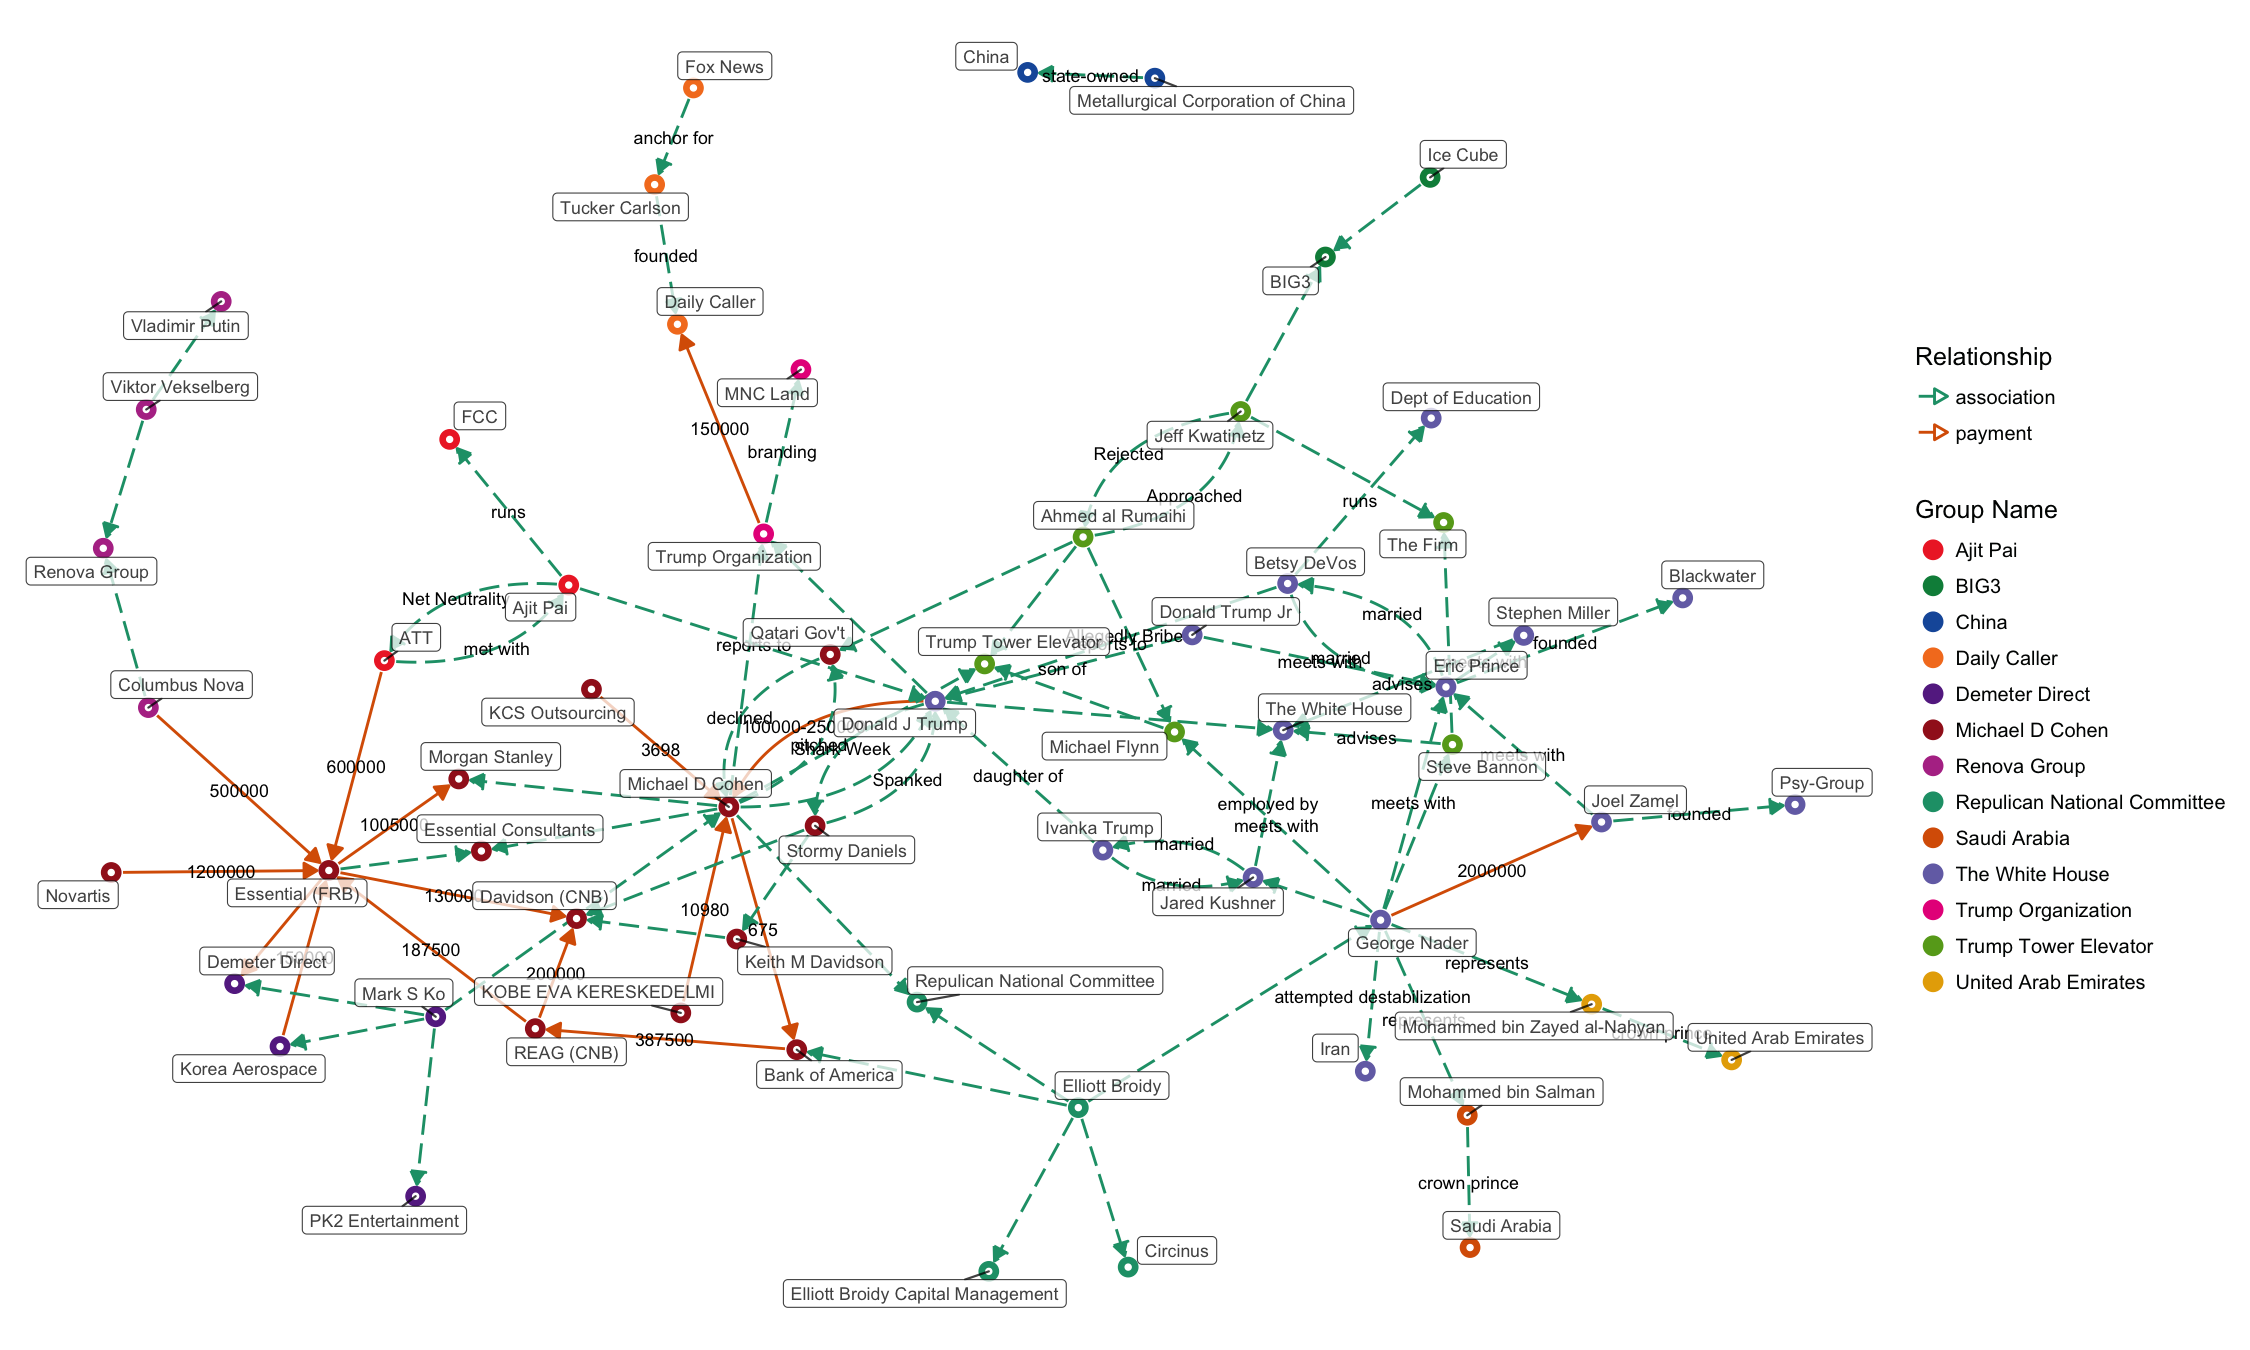
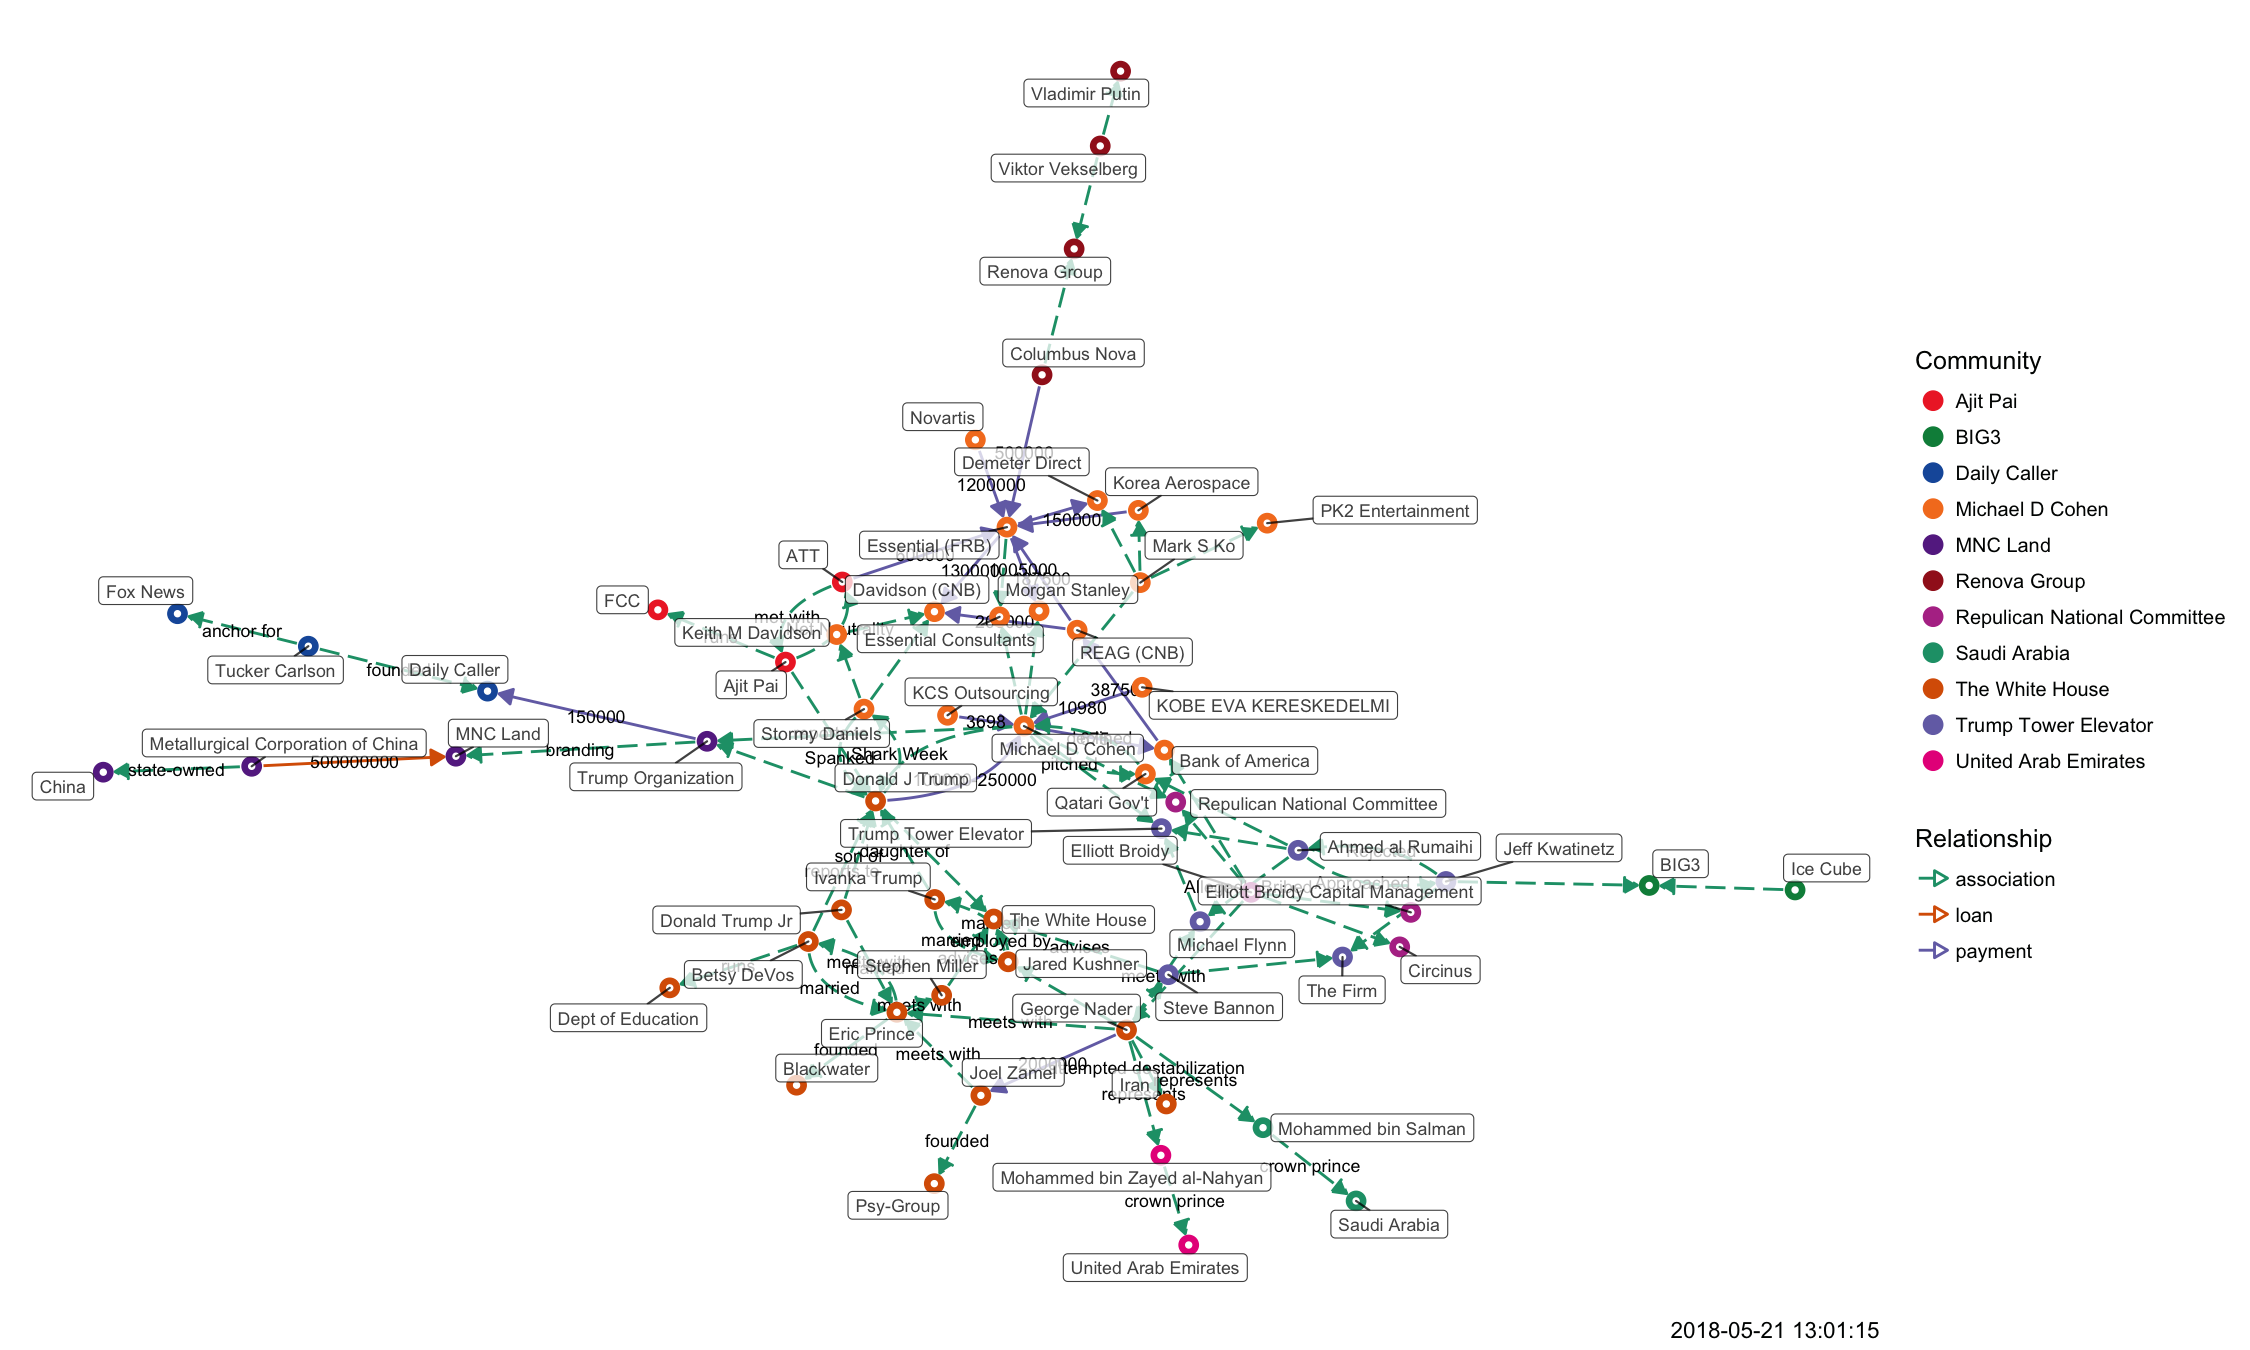
updated

diff --git a/docs/tangled-d3.html b/docs/tangled-d3.html
@@ -1143,11 +1143,11 @@ return function(){for(var n=0,e=0;e<t;++e)n+=Math.random();return n}},um=functio
 </head>
 <body style="background-color: white;">
 <div id="htmlwidget_container">
-<div id="htmlwidget-9cecf5cc5d6e5ba40ebd" class="forceNetwork html-widget" style="width:960px;height:500px;">
+<div id="htmlwidget-3a9a416c695a3498ed51" class="forceNetwork html-widget" style="width:960px;height:500px;">
 
 </div>
 </div>
-<script type="application/json" data-for="htmlwidget-9cecf5cc5d6e5ba40ebd">{"x":{"links":{"source":[0,1,2,3,4,4,4,5,6,7,8,9,10,11,11,12,4,9,2,13,9,14,15,15,13,16,16,16,16,9,3,3,15,9,9,17,17,17,17,3,9,18,19,19,20,21,20,20,22,19,19,23,23,23,0,22,16,5,5,24,24,25,25,9,26,27,28,5,29,30,31,5,5,32,33,31,34,30,5,5,29,31,35,35,35,12,36],"target":[4,11,4,9,37,38,39,30,9,9,4,1,4,37,4,40,41,41,42,42,3,37,37,14,43,44,45,46,1,39,47,15,3,12,44,38,48,9,8,12,49,49,49,20,19,50,51,50,51,26,18,0,3,52,23,47,5,22,24,47,25,24,3,26,9,40,27,31,31,31,53,33,32,54,55,34,47,56,18,57,3,35,31,58,3,59,60],"colour":["red","red","red","red","red","red","red","red","red","red","red","red","red","red","red","red","blue","blue","blue","blue","blue","blue","blue","blue","blue","blue","blue","blue","blue","blue","blue","blue","blue","blue","blue","blue","blue","blue","blue","blue","blue","blue","blue","blue","blue","blue","blue","blue","blue","blue","blue","blue","blue","blue","blue","blue","blue","blue","blue","blue","blue","blue","blue","blue","blue","blue","blue","blue","blue","blue","blue","blue","blue","blue","blue","blue","blue","blue","blue","blue","blue","blue","blue","blue","blue","blue","blue"]},"nodes":{"name":["ATT","Bank of America","Columbus Nova","Donald J Trump","Essential (FRB)","George Nader","KCS Outsourcing","KOBE EVA KERESKEDELMI","Korea Aerospace","Michael D Cohen","Novartis","REAG (CNB)","Trump Organization","Viktor Vekselberg","Keith M Davidson","Stormy Daniels","Elliott Broidy","Mark S Ko","Michael Flynn","Ahmed al Rumaihi","Jeff Kwatinetz","Ice Cube","Steve Bannon","Ajit Pai","Jared Kushner","Ivanka Trump","Qatari Gov't","Tucker Carlson","Fox News","Donald Trump Jr","Joel Zamel","Eric Prince","Mohammed bin Salman","Mohammed bin Zayed al-Nahyan","Stephen Miller","Betsy DeVos","Metallurgical Corporation of China","Davidson (CNB)","Demeter Direct","Morgan Stanley","Daily Caller","Essential Consultants","Renova Group","Vladimir Putin","Repulican National Committee","Elliott Broidy Capital Management","Circinus","The White House","PK2 Entertainment","Trump Tower Elevator","BIG3","The Firm","FCC","Blackwater","Saudi Arabia","United Arab Emirates","Psy-Group","Iran","Dept of Education","MNC Land","China"],"group":["8","2","4","1","2","1","2","2","5","2","2","2","11","4","2","2","6","5","3","3","3","12","3","8","1","1","2","7","7","1","1","1","10","9","1","1","13","2","5","2","7","2","4","4","6","6","6","1","5","3","12","3","8","1","10","9","1","1","1","11","13"]},"options":{"NodeID":"name","Group":"group","colourScale":"d3.scaleOrdinal(d3.schemeCategory20);","fontSize":20,"fontFamily":"serif","clickTextSize":50,"linkDistance":50,"linkWidth":"function(d) { return Math.sqrt(d.value); }","charge":-100,"opacity":1,"zoom":false,"legend":false,"arrows":false,"nodesize":false,"radiusCalculation":" Math.sqrt(d.nodesize)+6","bounded":false,"opacityNoHover":1,"clickAction":null}},"evals":[],"jsHooks":[]}</script>
-<script type="application/htmlwidget-sizing" data-for="htmlwidget-9cecf5cc5d6e5ba40ebd">{"viewer":{"width":450,"height":350,"padding":10,"fill":true},"browser":{"width":960,"height":500,"padding":10,"fill":true}}</script>
+<script type="application/json" data-for="htmlwidget-3a9a416c695a3498ed51">{"x":{"links":{"source":[0,1,2,3,4,4,4,5,6,7,8,9,10,11,12,12,13,4,10,2,14,10,15,16,16,14,17,17,17,17,10,3,3,16,10,10,18,18,18,18,3,10,19,20,20,21,22,21,21,23,20,20,24,24,24,0,23,17,5,5,25,25,26,26,10,27,28,28,5,29,30,31,5,5,32,33,31,34,30,5,5,29,31,35,35,35,13,9],"target":[4,12,4,10,36,37,38,30,10,10,4,39,1,4,36,4,40,41,41,42,42,3,36,36,15,43,44,45,46,1,38,47,16,3,13,44,37,48,10,8,13,49,49,49,21,20,50,51,50,51,27,19,0,3,52,24,47,5,23,25,47,26,25,3,27,10,40,53,31,31,31,54,33,32,55,56,34,47,57,19,58,3,35,31,59,3,39,60],"colour":["red","red","red","red","red","red","red","red","red","red","red","blue","red","red","red","red","red","blue","blue","blue","blue","blue","blue","blue","blue","blue","blue","blue","blue","blue","blue","blue","blue","blue","blue","blue","blue","blue","blue","blue","blue","blue","blue","blue","blue","blue","blue","blue","blue","blue","blue","blue","blue","blue","blue","blue","blue","blue","blue","blue","blue","blue","blue","blue","blue","blue","blue","blue","blue","blue","blue","blue","blue","blue","blue","blue","blue","blue","blue","blue","blue","blue","blue","blue","blue","blue","blue","blue"]},"nodes":{"name":["ATT","Bank of America","Columbus Nova","Donald J Trump","Essential (FRB)","George Nader","KCS Outsourcing","KOBE EVA KERESKEDELMI","Korea Aerospace","Metallurgical Corporation of China","Michael D Cohen","Novartis","REAG (CNB)","Trump Organization","Viktor Vekselberg","Keith M Davidson","Stormy Daniels","Elliott Broidy","Mark S Ko","Michael Flynn","Ahmed al Rumaihi","Jeff Kwatinetz","Ice Cube","Steve Bannon","Ajit Pai","Jared Kushner","Ivanka Trump","Qatari Gov't","Tucker Carlson","Donald Trump Jr","Joel Zamel","Eric Prince","Mohammed bin Salman","Mohammed bin Zayed al-Nahyan","Stephen Miller","Betsy DeVos","Davidson (CNB)","Demeter Direct","Morgan Stanley","MNC Land","Daily Caller","Essential Consultants","Renova Group","Vladimir Putin","Repulican National Committee","Elliott Broidy Capital Management","Circinus","The White House","PK2 Entertainment","Trump Tower Elevator","BIG3","The Firm","FCC","Fox News","Blackwater","Saudi Arabia","United Arab Emirates","Psy-Group","Iran","Dept of Education","China"],"group":["8","1","5","2","1","2","1","1","1","4","1","1","1","4","5","1","1","6","1","3","3","3","11","3","8","2","2","1","7","2","2","2","10","9","2","2","1","1","1","4","7","1","5","5","6","6","6","2","1","3","11","3","8","7","2","10","9","2","2","2","4"]},"options":{"NodeID":"name","Group":"group","colourScale":"d3.scaleOrdinal(d3.schemeCategory20);","fontSize":20,"fontFamily":"serif","clickTextSize":50,"linkDistance":50,"linkWidth":"function(d) { return Math.sqrt(d.value); }","charge":-100,"opacity":1,"zoom":false,"legend":false,"arrows":false,"nodesize":false,"radiusCalculation":" Math.sqrt(d.nodesize)+6","bounded":false,"opacityNoHover":1,"clickAction":null}},"evals":[],"jsHooks":[]}</script>
+<script type="application/htmlwidget-sizing" data-for="htmlwidget-3a9a416c695a3498ed51">{"viewer":{"width":450,"height":350,"padding":10,"fill":true},"browser":{"width":960,"height":500,"padding":10,"fill":true}}</script>
 </body>
 </html>
